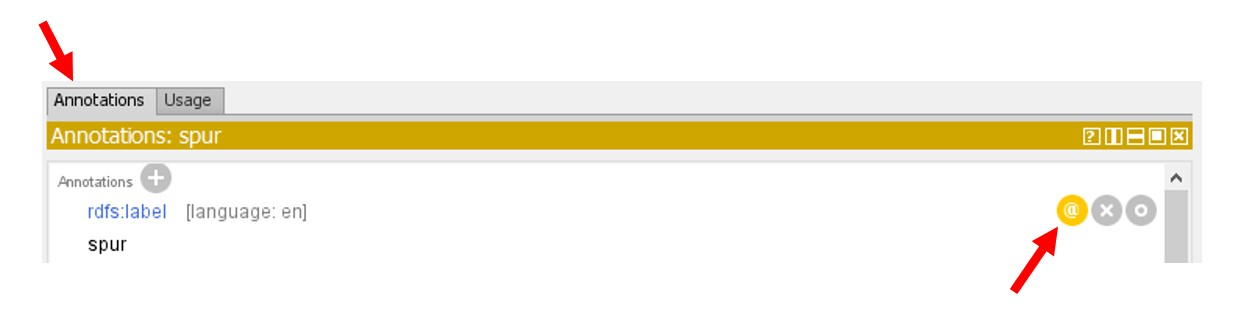
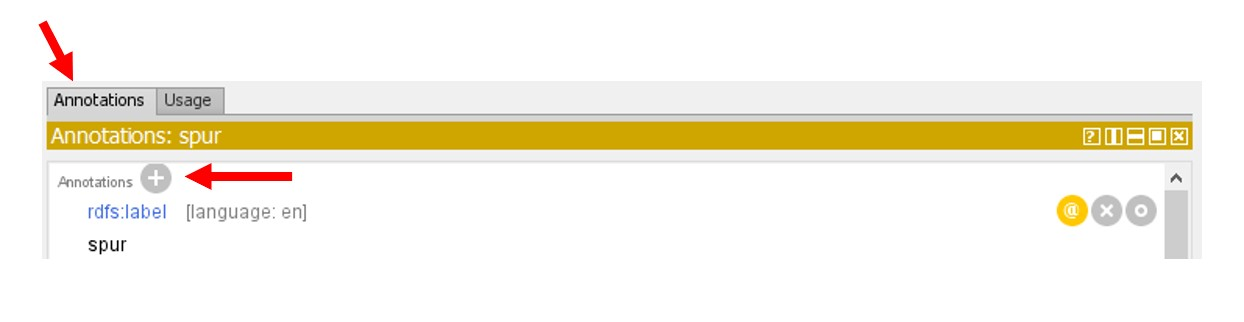
added more images to screenshots and more instructions to workflow file

diff --git a/Simple Workflow for insect ontology development.md b/Simple Workflow for insect ontology development.md
@@ -149,13 +149,13 @@ Each term should contain a series of annotations which will be the way to link t
 
 Each term should at least have an ‘rdfs: label’ and a ‘definition’. Ideally, each term should include a reference for the definition that is being used. AISM incorporates plenty of **Annotation properties** for these purposes.
 
-To add annotations to an existing term click on the ‘@’ symbol on the right side of the annotations tab.
+To add annotations to an existing term click on the plus sign on the left side of the annotations tab.
 
 <p align="left">
   <img src="https://github.com/JCGiron/aism/blob/master/screenshots/Annotations1.jpg" width="500" title="hover text">
  </p>  
  
-This will open a new window to choose what kind of annotation will be added. Click on the plus sign, which opens the ‘Create annotation’ window.
+This will open the ‘Annotations for AnnotationAssertion’ window to choose what kind of annotation will be added. Click on the plus sign, which opens the ‘Create annotation’ window.
 
 <p align="left">
   <img src="https://github.com/JCGiron/aism/blob/master/screenshots/Annotations2.jpg" width="500" title="hover text">
@@ -163,10 +163,29 @@ This will open a new window to choose what kind of annotation will be added. Cli
 
 Choose ‘definition’ to add a natural language verbatim definition for the term. Type the definition in the white box on the right side panel, choose the appropriate language for it, and click OK.
 
-
 <p align="left">
   <img src="https://github.com/JCGiron/aism/blob/master/screenshots/Annotations3.jpg" width="500" title="hover text">
  </p> 
+
+You can add annotations to the annotations. For instance, let's add an author for this definition. Go to the annotation that you want to add details to and click on the closest  ‘@’ symbol on the right side.
+
+<p align="left">
+  <img src="https://github.com/JCGiron/aism/blob/master/screenshots/Annotations4.jpg" width="500" title="hover text">
+ </p>
+
+Which will open the ‘Annotations for AnnotationAssertion’ window. Click on the plus sign.
+
+<p align="left">
+  <img src="https://github.com/JCGiron/aism/blob/master/screenshots/Annotations5.jpg" width="500" title="hover text">
+ </p>
+
+On the new window choose ‘dc:contributor’, add the name of the person on the panel on the right, and press OK. 
+
+<p align="left">
+  <img src="https://github.com/JCGiron/aism/blob/master/screenshots/Annotations6.jpg" width="500" title="hover text">
+ </p>
+
+ Press OK again in the ‘Annotations for AnnotationAssertion’ window, and your new annotation should appear under the definition.
 
 Additional resources can be found at: [https://go-protege-tutorial.readthedocs.io/en/latest/](https://go-protege-tutorial.readthedocs.io/en/latest/)
 
